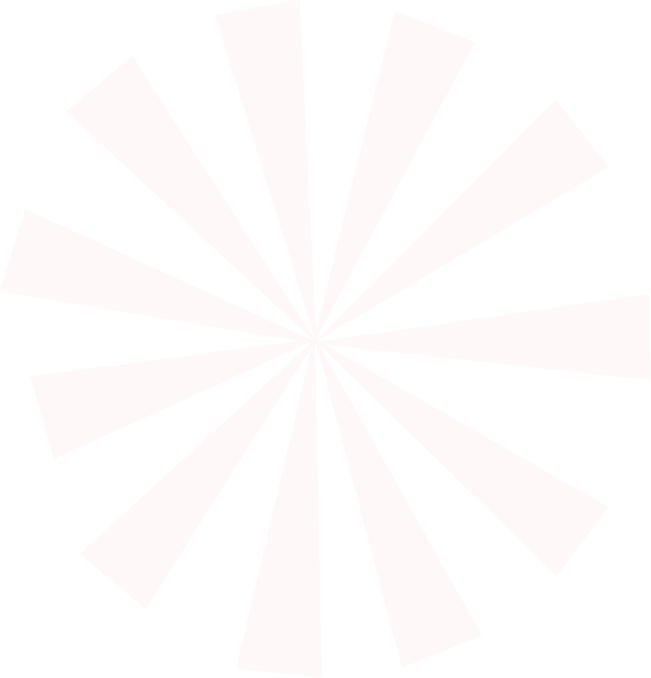
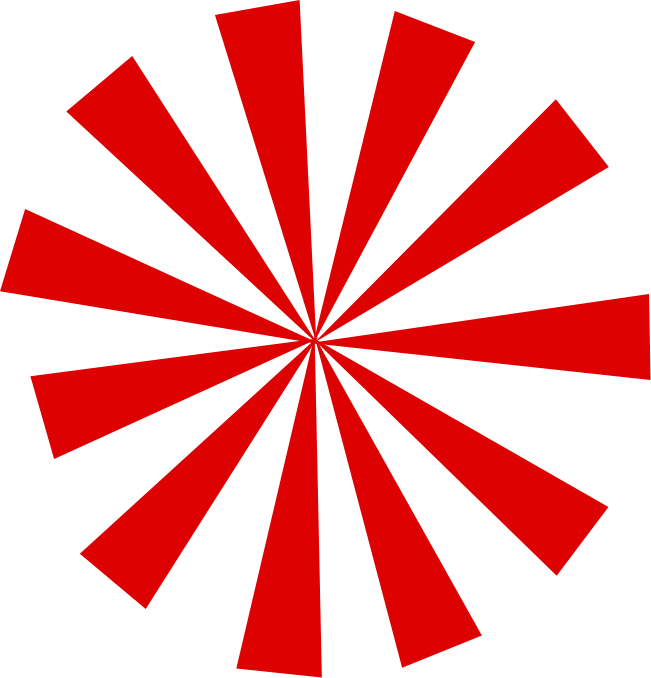
background animiation

diff --git a/src/components/MyKanji/MyKanji.css b/src/components/MyKanji/MyKanji.css
@@ -10,11 +10,7 @@ body {
   margin: -3.7% 0 0 0;
   overflow: hidden;
 }
-.spinner {
-  width: 20%;
-  height: 20%;
-  margin: 0 auto;
-}
+
 .all_containers {
   width: 100%;
   height: 130vh;
@@ -22,6 +18,31 @@ body {
   display: flex;
   justify-content: flex-end;
   align-items: flex-end;
+}
+.spinner-container {
+  width: 100%;
+  height: 35%;
+  display: flex;
+  justify-content: center;
+  align-items: center;
+}
+.spinner {
+  width: 26%;
+  height: 100%;
+  margin: 0% 0% 1% 3.5%;
+  opacity: 0.05;
+  animation-name: spin;
+  animation-duration: 90000ms;
+  animation-iteration-count: infinite;
+  animation-timing-function: linear;
+}
+@keyframes spin {
+  from {
+    transform: rotate(0deg);
+  }
+  to {
+    transform: rotate(360deg);
+  }
 }
 .heads {
   width: 100%;
@@ -88,7 +109,7 @@ div .folders:hover {
 div .folders:hover a,
 div .folders:hover .delete-icon {
   transform: scale(1.211);
-  transition: 0.3s;
+  transition: 1s;
   text-decoration: none;
 }
 
@@ -110,11 +131,12 @@ div .folders:hover .delete-icon {
 
 .create {
   width: 40%;
-  height: 10%;
+  height: 15%;
   margin-top: 10%;
   border-radius: 5px;
   color: #ff0b0b;
   font-weight: bold;
+  font-size: 20px;
   background: rgb(249, 249, 249);
 }
 
@@ -130,12 +152,12 @@ div .folders:hover .delete-icon {
   position: absolute;
   opacity: 0;
   top: 0;
-  right: -20px;
+  right: -25px;
   transition: 0.5s;
 }
 
 .create:hover span {
-  padding-right: 10px;
+  padding-right: 15px;
 }
 
 .create:hover span:after {
@@ -147,8 +169,8 @@ div .folders:hover .delete-icon {
   outline-style: groove;
   outline-width: 3px;
 }
-button .link {
-  padding: 1.37em 7.5em;
+.link {
+  padding: 1.37em 8.5em;
   text-decoration: none;
   color: black;
 }

diff --git a/src/components/MyKanji/MyKanji.js b/src/components/MyKanji/MyKanji.js
@@ -199,8 +199,10 @@ class MyKanji extends Component {
 
     return (
       <div className="background2">
-        <img className="spinner" src={spinner} alt="spin" />
         <div className="all_containers">
+          <div className="spinner-container">
+            <img className="spinner" src={spinner} alt="spin" />
+          </div>
           <div className="heads">
             <h1 className="container-heads">Kanji I Know</h1>
             <h1>Kanji I'm Learning</h1>
